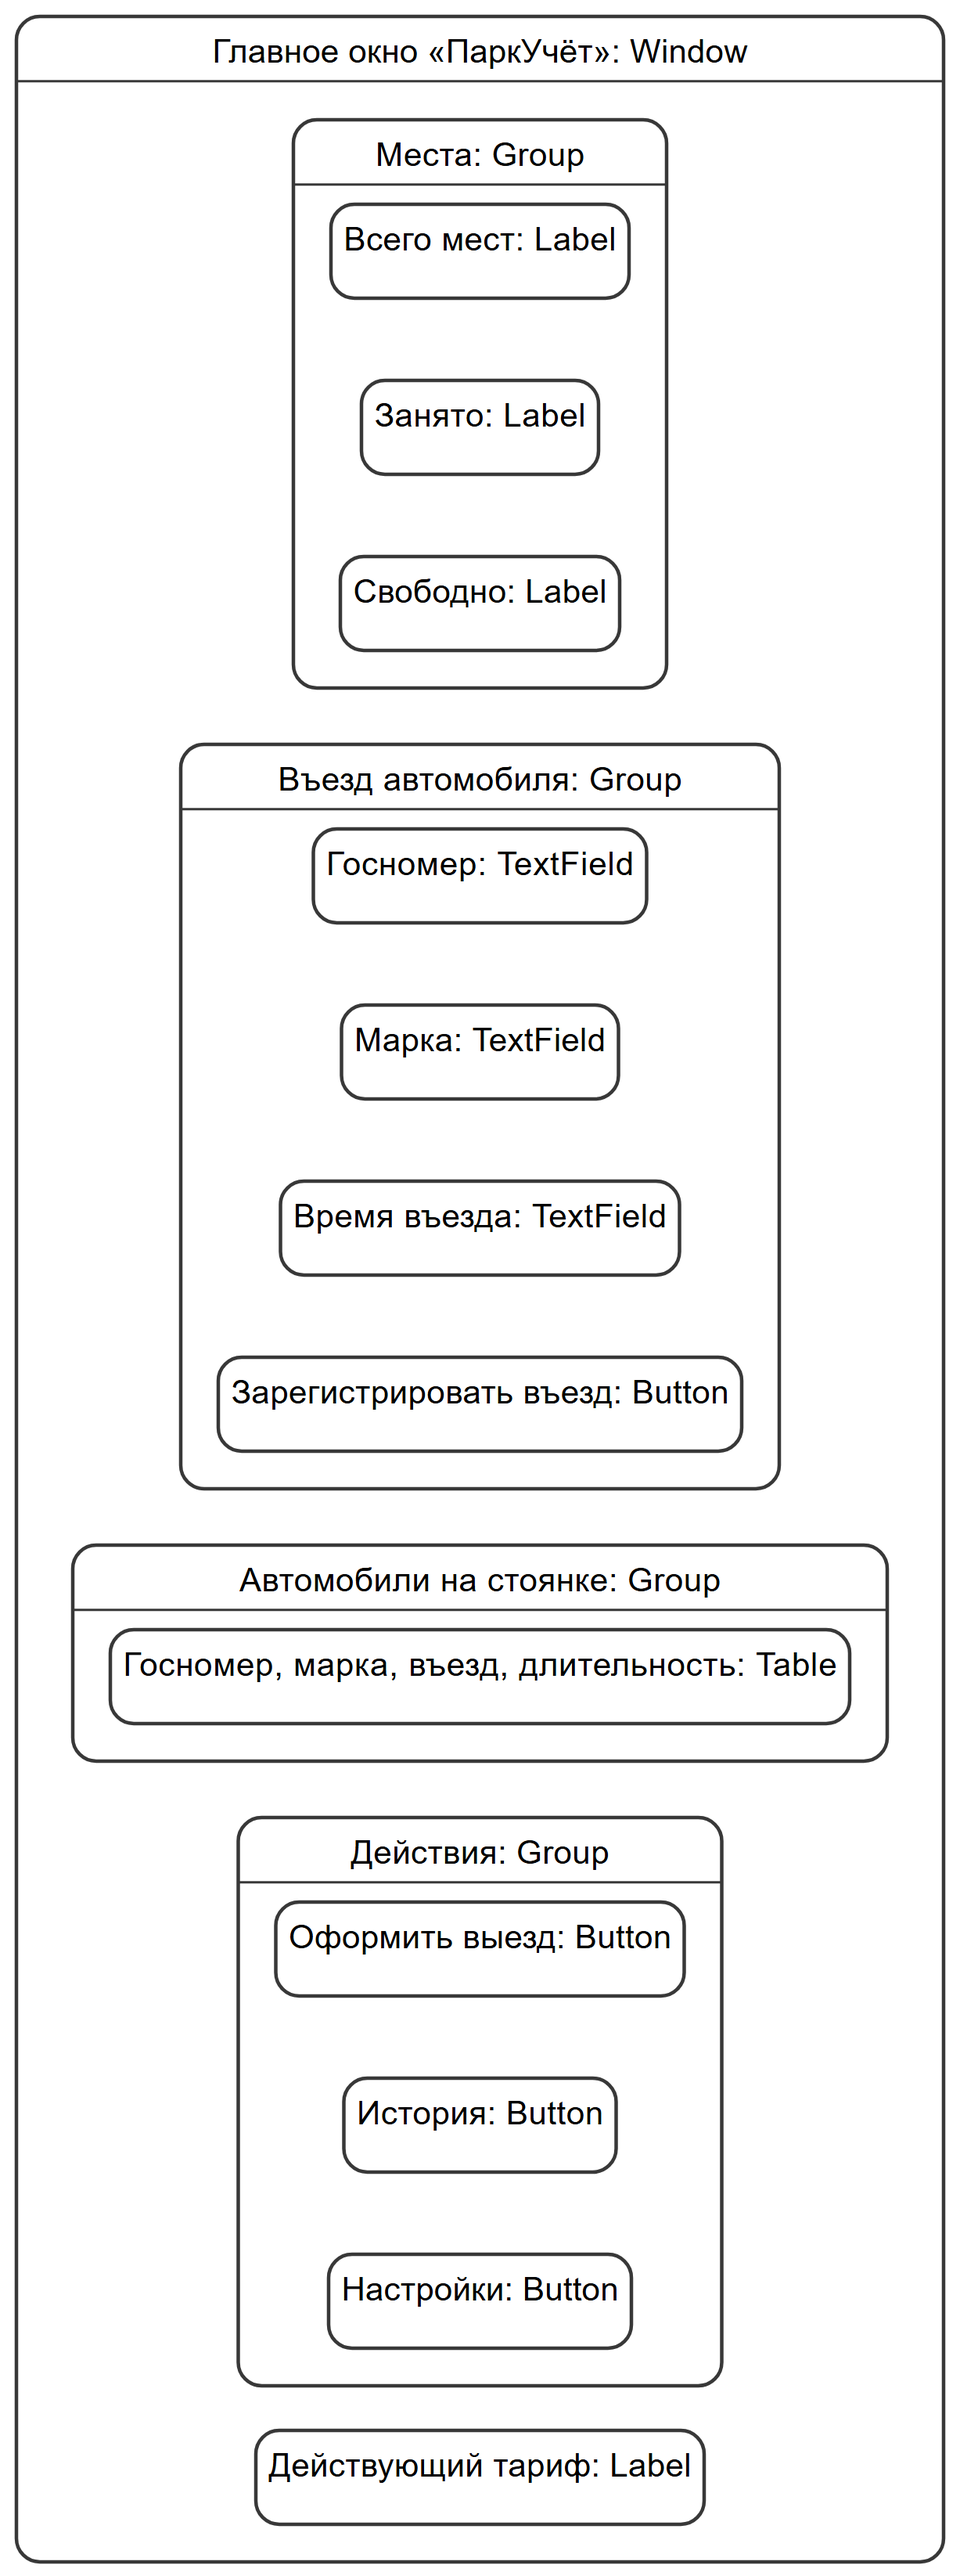
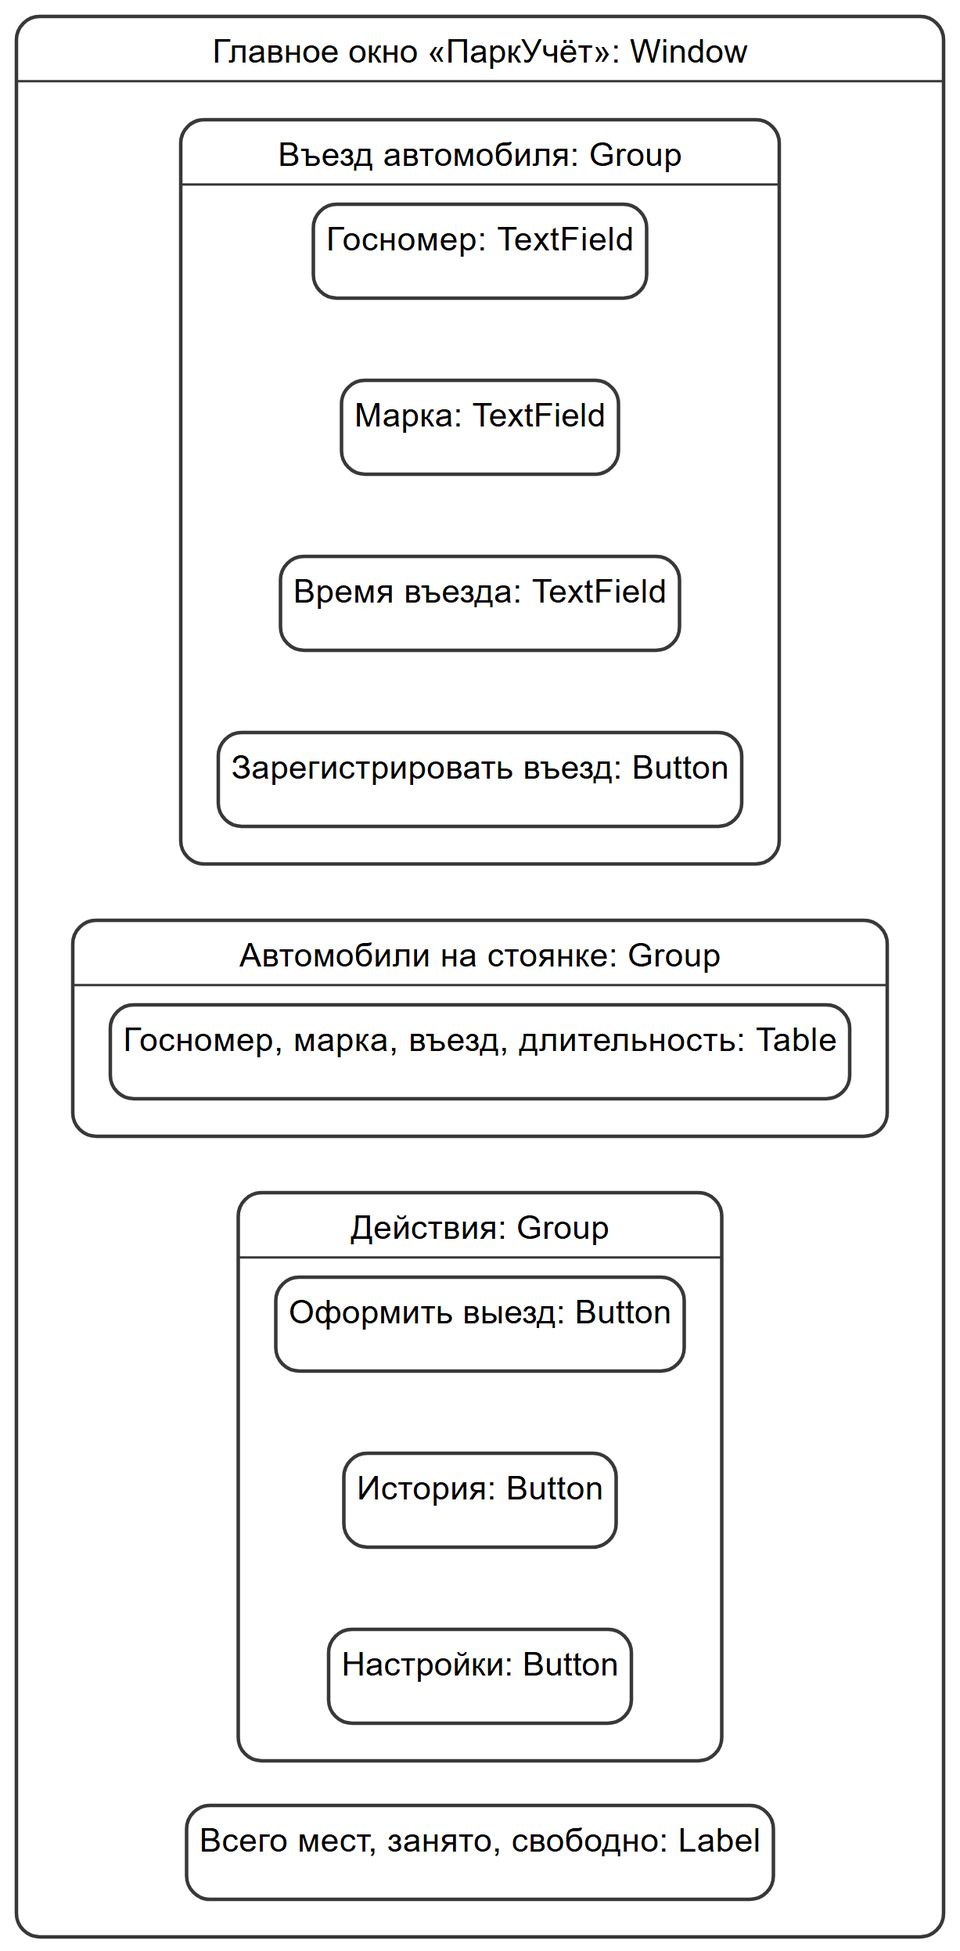
ЛР3: трассировка бизнес-требований, уточнены макеты окон

Changed region(s): [[0.0, 0.0, 0.991, 1.0], [0.8052, 0.0618, 0.8362, 0.3089]]

diff --git a/srs/srs.md b/srs/srs.md
@@ -622,3 +622,18 @@
 | 20:00 | Просмотр истории | Четыре завершённые стоянки на сумму 32,00 BYN |
 
 Значения в таблице рассчитаны по правилу REQ-FUNC-007 и совпадают с контрольными примерами таблицы 7.
+
+Пример показывает полный цикл работы: регистрацию въезда, расчёт стоимости с учётом льготного периода и начатых часов, изменение количества свободных мест после каждой операции и итог за смену в окне истории.
+
+### 5.4 Трассировка бизнес-требований
+
+Таблица 12 – Связь формулировки Заказчика с требованиями
+
+| Формулировка Заказчика | Требование |
+|------|------|
+| Оператор регистрирует въезд машины: госномер, марку и время | REQ-FUNC-001 – REQ-FUNC-005 |
+| При выезде программа считает стоимость стоянки по тарифу | REQ-FUNC-006 – REQ-FUNC-008, REQ-FUNC-013 |
+| Программа показывает свободные места | REQ-FUNC-009, REQ-FUNC-010, REQ-FUNC-014 |
+| Программа ведёт историю | REQ-FUNC-011 |
+
+Каждое функциональное требование раздела 3.2 связано с одной из частей формулировки Заказчика. Требований, не связанных с ней, в спецификации нет: функции, которые Заказчик не называл, вынесены в открытые вопросы раздела 5.2.
